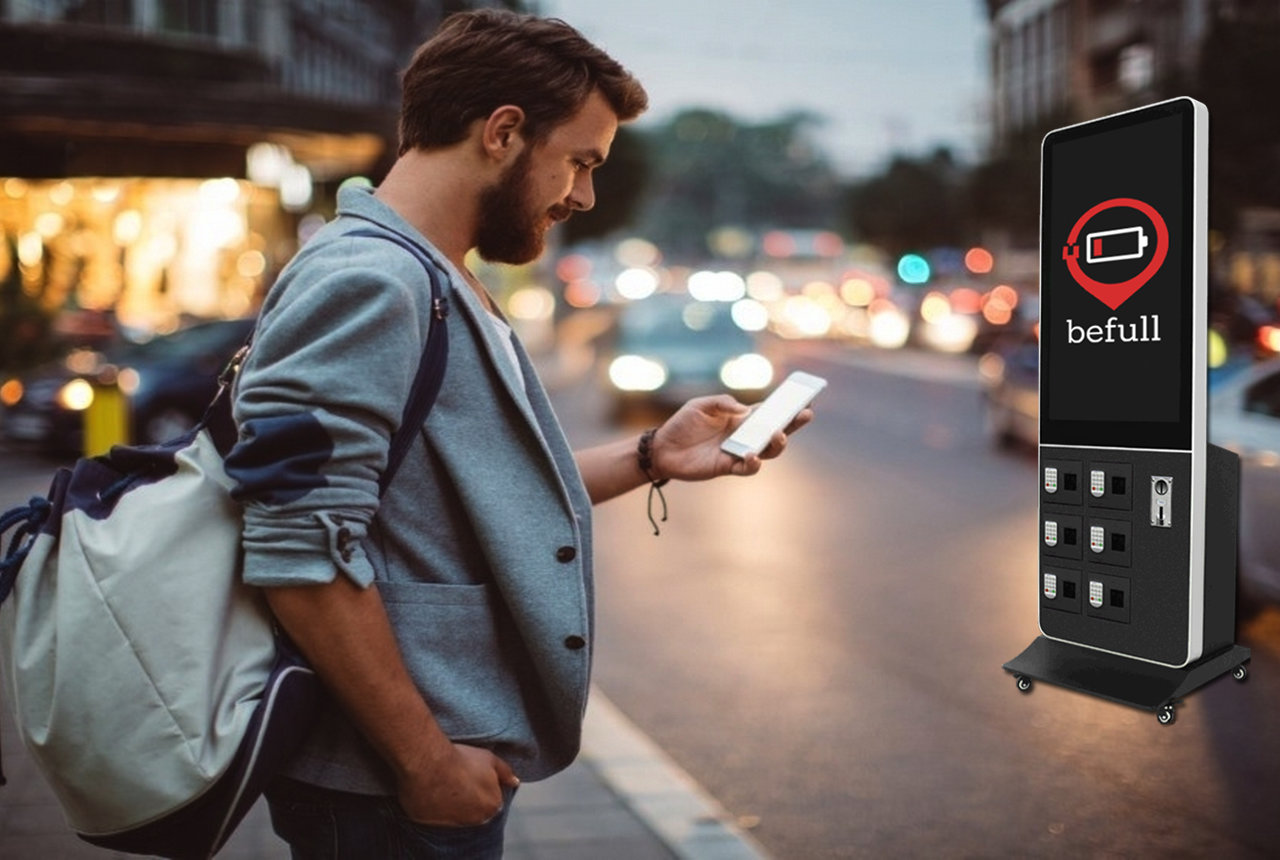
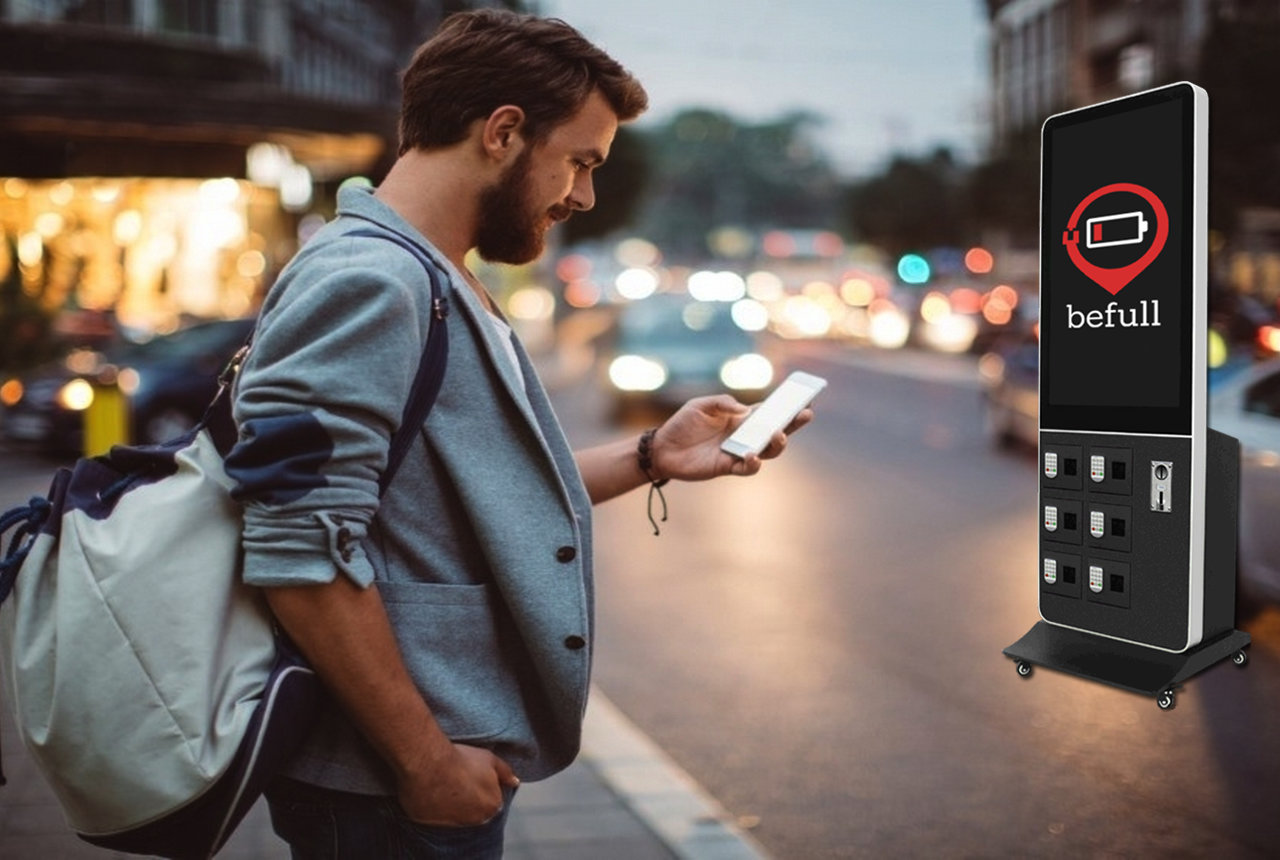
Modify slider images

Changed region(s): [[0.7812, 0.4837, 1.0, 0.8465], [0.8125, 0.2116, 0.9375, 0.4233], [0.8125, 0.0907, 0.9688, 0.1814]]

diff --git a/assets/css/gallery.css b/assets/css/gallery.css
@@ -698,7 +698,7 @@
 .gallery .slide1 {
   background: url("images/portada1.jpg") no-repeat;
   background-size: cover;
-  background-position: center;
+  background-position: top;
 }
 
 .gallery .slide2 {
@@ -710,7 +710,7 @@
 .gallery .slide3 {
   background: url("images/portada3.jpg") no-repeat;
   background-size: cover;
-  background-position: center;
+  background-position: top;
 }
 
 .gallery .slide4 {
@@ -801,7 +801,7 @@
 
 @media screen and (max-width: 1280px) {
   .gallery .slide1 {
-    background-position: 91%;
+    background-position: top;
   }
 
   #slide1-text {
@@ -826,7 +826,7 @@
     width: 65%;
     font-size: 2em;
     position: absolute;
-    top: 22%;
+    top: 26%;
     left: 50%;
     transform: translate(-50%, -50%);
     line-height: 1.2;
